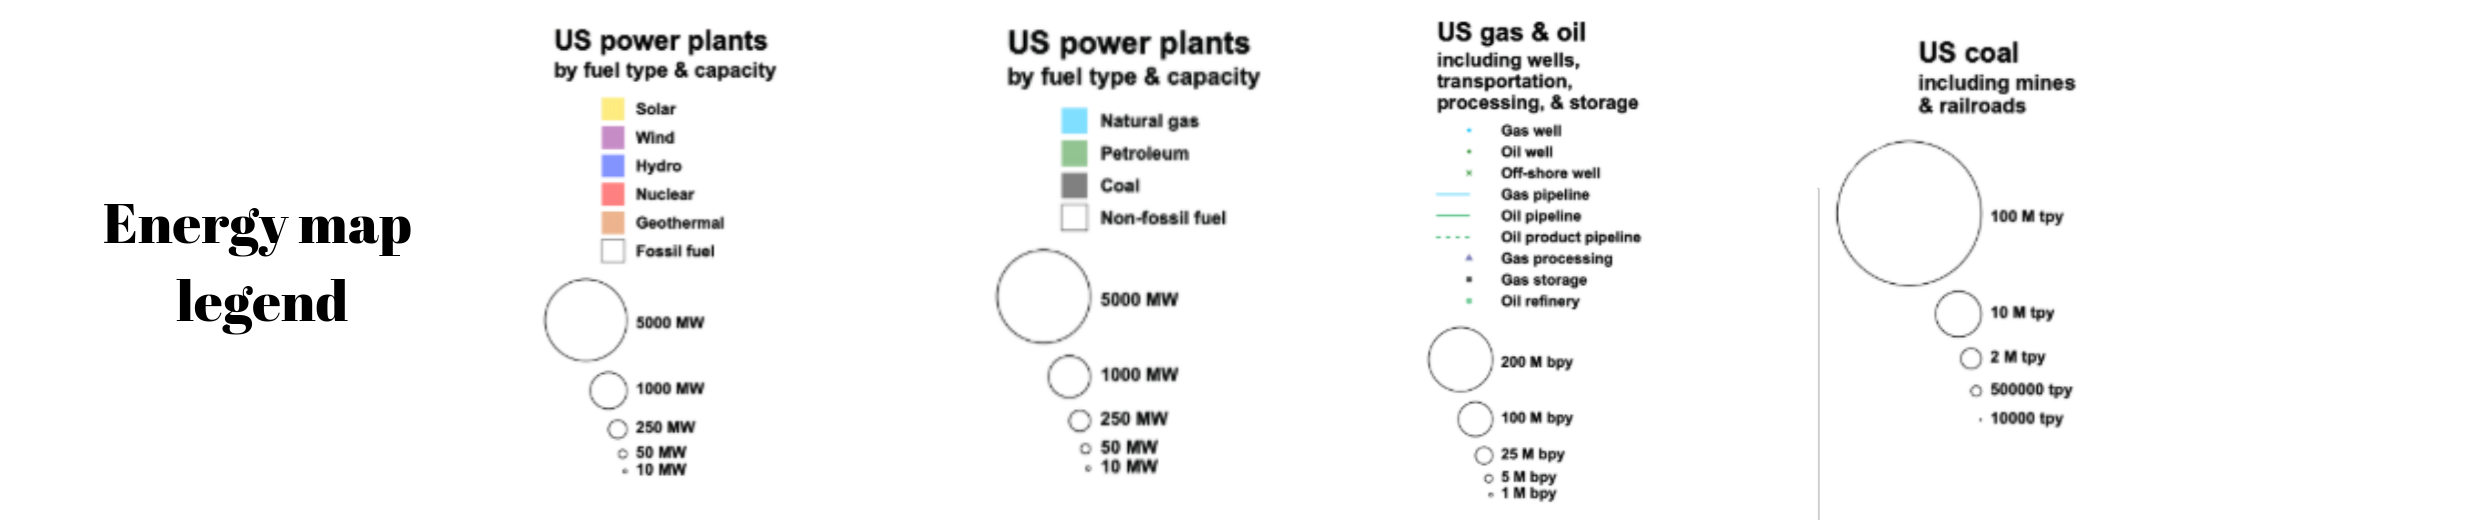
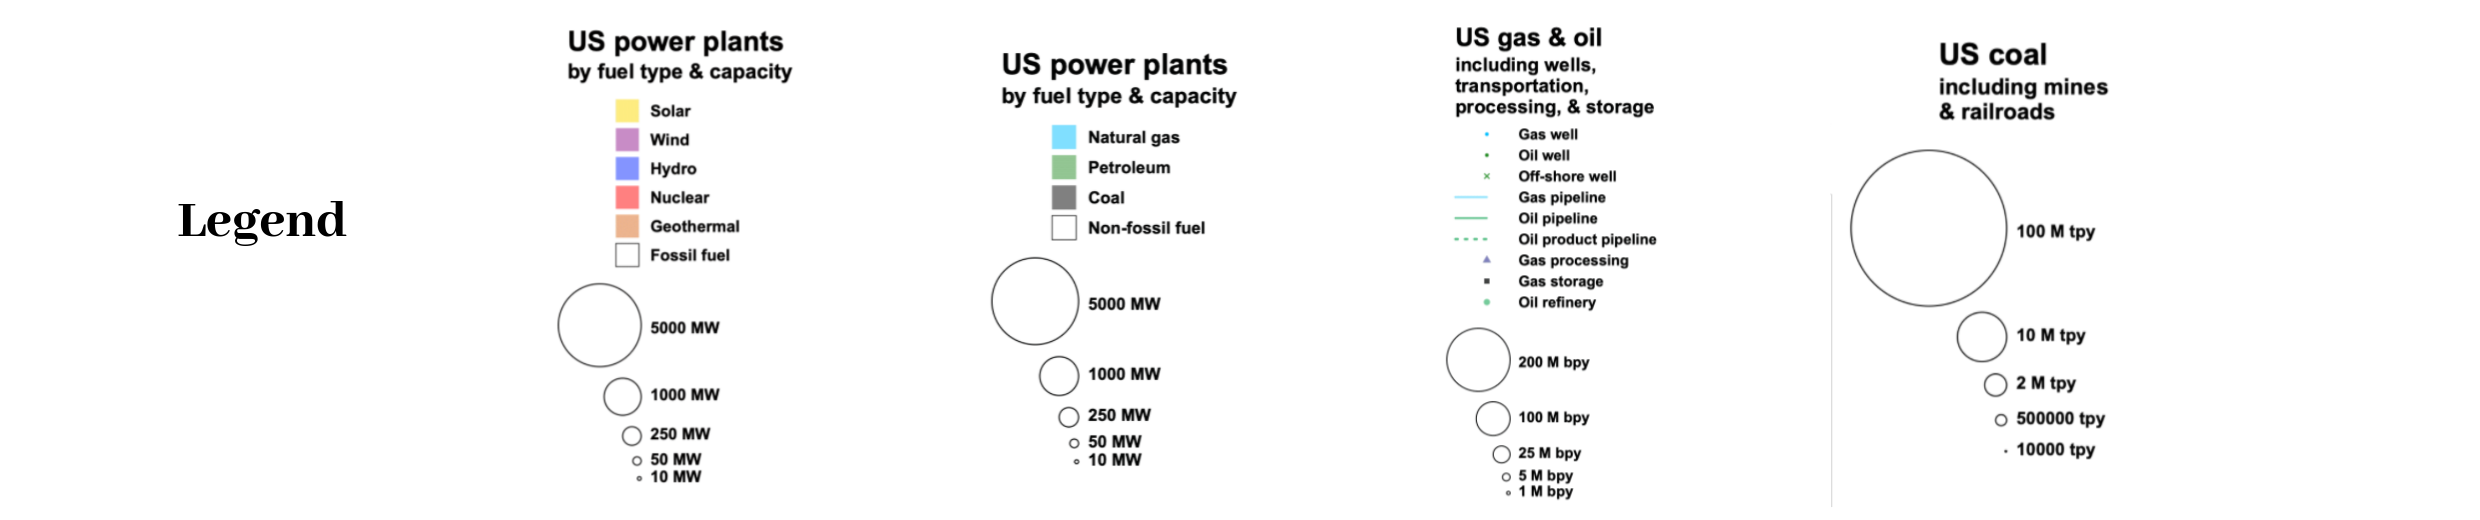
fix legend and map sizing

diff --git a/energy_maps/templates/builder.html b/energy_maps/templates/builder.html
@@ -9,16 +9,7 @@
 <!-- Map Builder UI -->
 <div> 
   <div id="asset-totals"><p>Asset Totals:</p></div>
-  <p>Create a custom map:</p>
-  <div class="options">
-    <!-- Checkboxes render here -->
-  </div>
-  <span>
-    <!-- <span id="">Asset Totals:</span> -->
-    <a id="download" download="custom-map.png">
-      <button type="button" onClick="download()">Download</button>
-    </a>
-  </span>
+  
 </div>
 <!--/ Map Builder UI -->
 
@@ -31,10 +22,19 @@
     </div>
   </div>
   <div class="map composite"></div>
-
+  <p>Create a custom map:</p>
+  <div class="options">
+    <!-- Checkboxes render here -->
+  </div>
+  <span>
+    <!-- <span id="">Asset Totals:</span> -->
+    <a id="download" download="custom-map.png">
+      <button type="button" onClick="download()">Download</button>
+    </a>
+  </span>
   <!-- Layer divs render here -->
   <footer>
-    <img src="../static/images/master-legend.png"/>
+    <img class="master-legend" src="../static/images/master-legend.png"/>
   </footer>
 </div>
 

diff --git a/energy_maps/static/css/main.v0.css b/energy_maps/static/css/main.v0.css
@@ -36,6 +36,11 @@ h6 {
   opacity: 0.3; */
 }
 
+.master-legend {
+  /* max-width: 50%;
+  max-height: auto; */
+}
+
 /* When you comment the .wrap stuff out, it helps center the map, but it fucks everything up 
 on the index page */
 .wrap {
@@ -106,21 +111,3 @@ on the index page */
   left: 15em;
   bottom: 60%;
 }
-/* .title.container svg {
-    position: absolute; } */
-/* .title.container .title {
-    font-size: 1em;
-    fill: black; } */
-/* .title.container .title .unit {
-      font-size: 0.7em;
-      font-weight: bold; } */
-/* .title.container .title .year {
-      font-size: 2.1em;
-      font-weight: bold;
-      clear: left;
-      letter-spacing: 0.05em;
-      font-variant-numeric: tabular-nums; } */
-/* .title.container .citation, .title.container .affiliation {
-    font-family: Fieldwork-HumThin, Futura, sans-serif;
-    font-size: 0.9em;
-    fill: #b2b2b2; } */

diff --git a/energy_maps/static/js/energy-maps.globals.v0.js b/energy_maps/static/js/energy-maps.globals.v0.js
@@ -1,11 +1,17 @@
 const fill_screen = false;
 
-let width = 2000 * SCALE;
+// vvv Original width and scale definitions vvv
+// let width = 2000 * SCALE;
 
-if (!SCALE) {
-  width = screen.width;
-  SCALE = width / 2000;
-}
+// if (!SCALE) {
+//   width = screen.width;
+//   SCALE = width / 2000;
+// }
+// ^^^ end original width and scale definitions ^^^
+
+// alter the width variable below to change the scale of the map if you need to make UI adjustments
+SCALE = 1;
+let width = 850 * SCALE;
 
 const height = width / 2;
 const padding = {top: 10, right: 10, bottom: 50, left: 50};

diff --git a/energy_maps/templates/base.html b/energy_maps/templates/base.html
@@ -6,6 +6,7 @@
   {% assets 'css_main' %}
     <link rel=stylesheet href={{ ASSET_URL }}>
   {% endassets %}
+  
 </head>
 <body>
 <div class=wrap>
